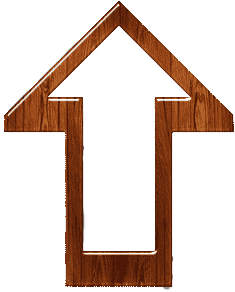
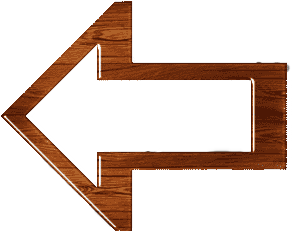
backSpace, home

diff --git a/src/components/PageMove.js b/src/components/PageMove.js
@@ -8,10 +8,9 @@ export function Backspace() {
                 backspace_box
         cursor-pointer
         absolute
-        -rotate-90
         "
                 style={
-                    { left: "8%", top: "0", width: "28%", height: "100%" }
+                    { left: "3%", top: "16%", width: "37%", height: "75%" }
                 }
                 onClick={(() => navigate(-1))}>
                 <img
@@ -42,10 +41,9 @@ export function Backspace2() {
                 backspace_box
         cursor-pointer
         absolute
-        -rotate-90
         "
                 style={
-                    { left: "8%", top: "0", width: "28%", height: "100%" }
+                    { left: "0", top: "14%", width: "37%", height: "80%" }
                 }
                 onClick={(() => navigate(-2))}>
                 <img
@@ -78,12 +76,13 @@ export function GoHome() {
         absolute
         "
                 style={
-                    { left: "45%", top: "15%", width: "50%" }
+                    { left: "45%", top: "5%", width: "50%", height: "90%" }
                 }
             >
                 <img
                     src="img/home1.png"
                     alt=""
+                    style={{ width: "95%", height: "90%" }}
                 />
                 <div
                     className="

diff --git a/src/index.css b/src/index.css
@@ -67,7 +67,6 @@ body,
     opacity: 0;
     transition: opacity;
     transition-duration: 500ms;
-    rotate: 90deg;
     color: rgba(120, 53, 15, 1);
     font-size: 2.125rem;
 }
